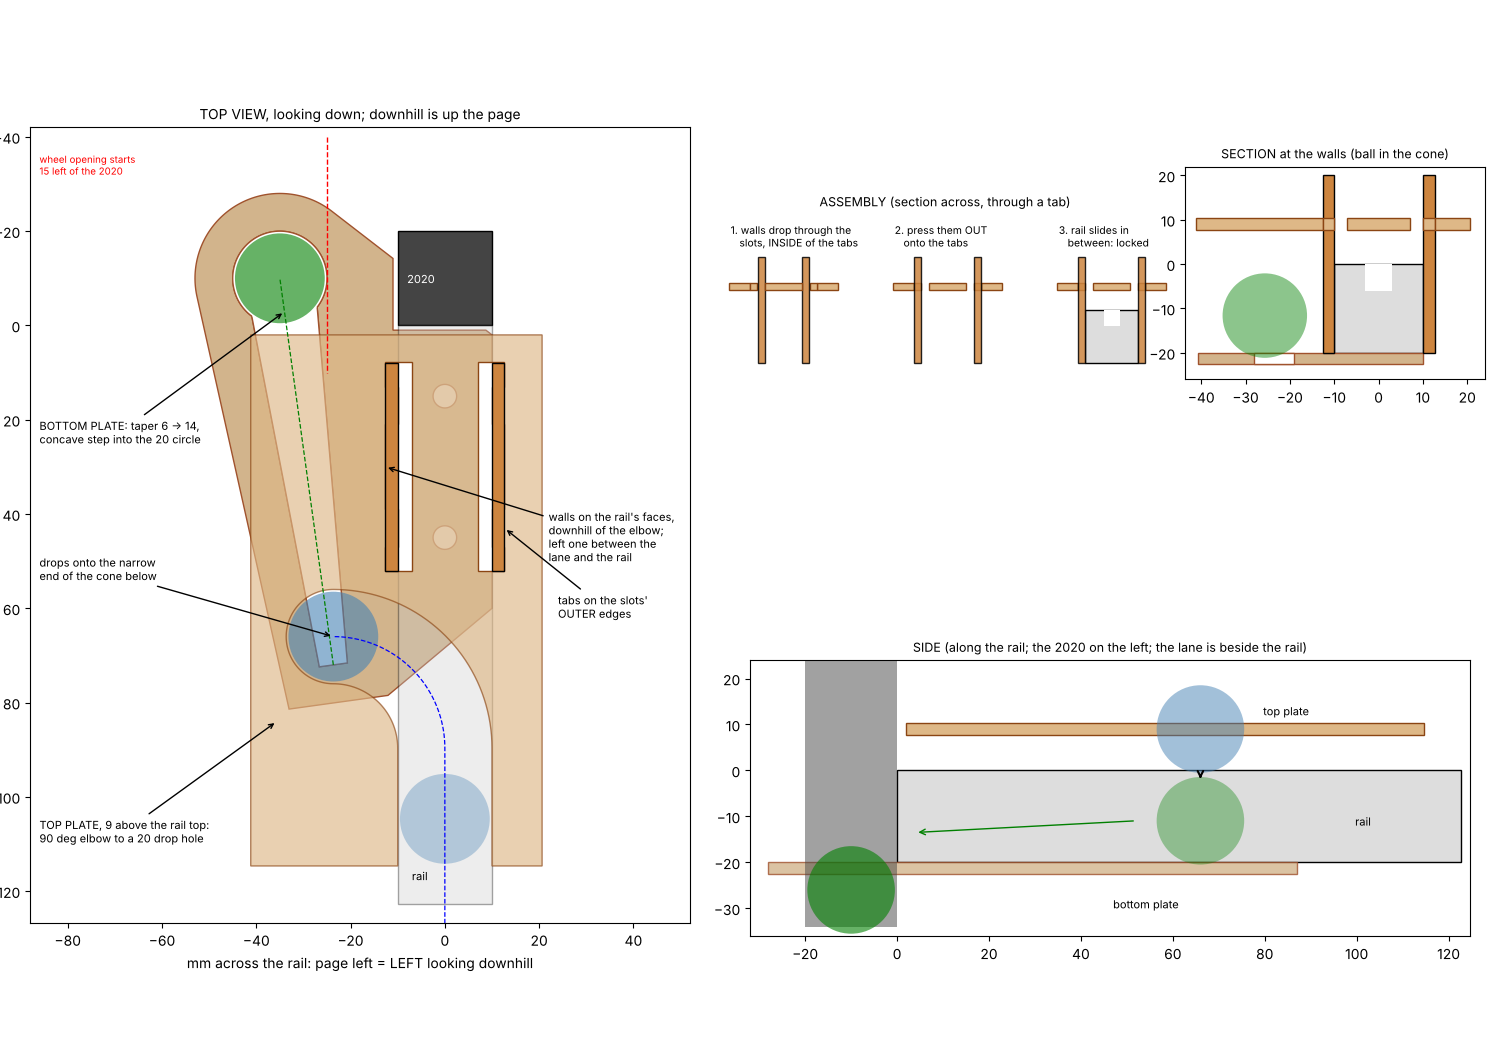
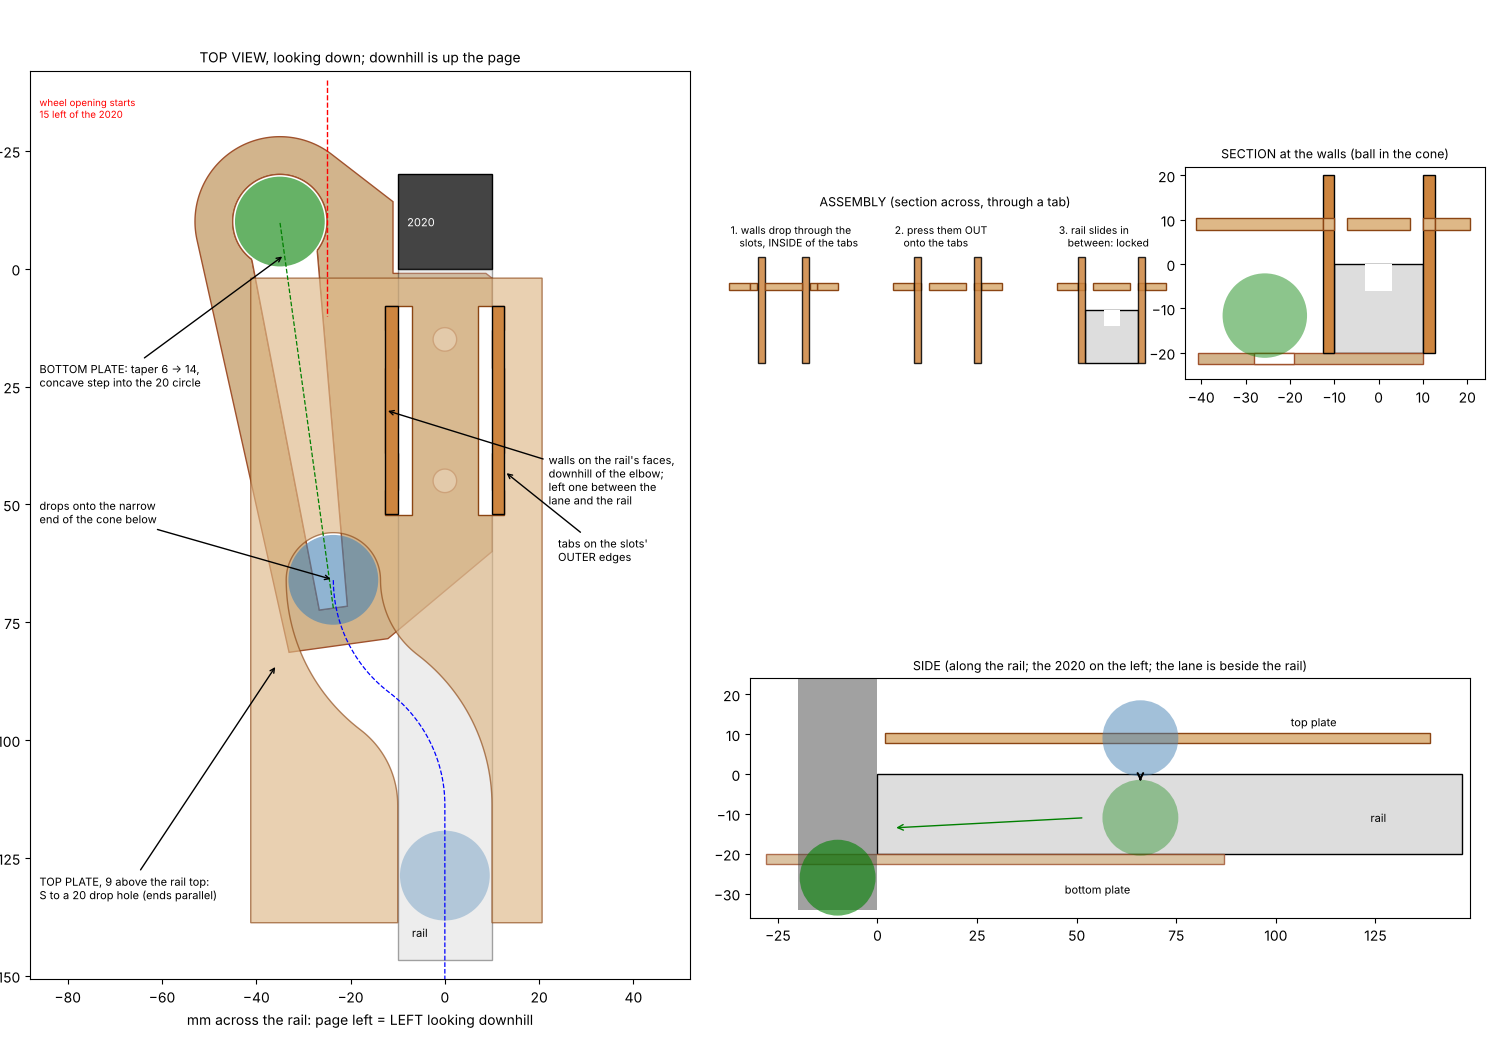
Feed drop: top plate with an S (2 x r30) ending parallel at the drop hole; bottom plate and walls unchanged
Claude-Session: https://claude.ai/code/session_01LQy87QnU21cWEAk5CN6jGY

diff --git a/marbles/clock/feed_drop_sketch.py b/marbles/clock/feed_drop_sketch.py
@@ -16,8 +16,11 @@ GAP_BEAM = 15.0                           # drop circle's right edge this far le
 X_END, YEND = -(10 + GAP_BEAM + 10), -10.0 # drop circle centre: beside the 2020, level with its centre
 PITCH, M5 = 30.0, 5.0                     # rail bolt holes: 30 apart, 5.0 (as the keepers)
 YW0, YW1 = 8.0, 52.0                      # walls (both identical): M5 at 15 and 45, symmetric, so either is left or right
-Y0 = YW1 + RC + 10 + 4                    # elbow start: its slot clears the walls' uphill ends by 4
-Y_HOLE = Y0 - RC                          # elbow ends at the drop hole (XL, Y_HOLE)
+Y_HOLE = YW1 + 14                         # drop hole centre (XL, Y_HOLE): its edge 4 above the walls' uphill ends
+S_R = 30.0                                # S: two arcs of this radius, rail centre -> lane line, ending parallel to the rail
+S_TH = math.degrees(math.acos(1 - (-XL / 2) / S_R))
+S_ALONG = S_R * math.sin(math.radians(S_TH))
+Y0 = Y_HOLE + 2 * S_ALONG                 # S starts here (heading downhill)
 WALL_H = 40.0                             # 20 on the rail's side + 20 above its top
 RAIL_M5 = [PITCH / 2 + PITCH * i for i in range(10)]
 W_TIP = 14.0                              # cone's wide end: still holds the ball (centre 6.46 up); the circle drops it
@@ -25,8 +28,10 @@ TAB_W = 8.0
 
 
 def geometry():
-    el = [(-RC + RC * math.cos(math.radians(90 * i / 40)), Y0 - RC * math.sin(math.radians(90 * i / 40))) for i in range(41)]
-    path = LineString([(0, Y0 + 40)] + el)
+    th = math.radians(S_TH)
+    a1 = [(-S_R + S_R * math.cos(th * i / 30), Y0 - S_R * math.sin(th * i / 30)) for i in range(31)]
+    a2 = [(XL + S_R - S_R * math.cos(th * (1 - i / 30)), Y_HOLE + S_R * math.sin(th * (1 - i / 30))) for i in range(1, 31)]
+    path = LineString([(0, Y0 + 40)] + a1 + a2)
     # cone: straight (no curve) from under the drop hole to the circle beside the 2020
     y_c0 = Y_HOLE + 6
     p0, p1 = (XL, y_c0), (X_END, YEND)
@@ -68,7 +73,7 @@ def emit(out_dir, wood="ply3"):
     g = geometry()
     out = []
     for name, geo, copies, note in (
-            ("feed_drop_top", g["plate"], "cut 1", f"top plate, {ZC:.1f} above the rail top in the walls' tabs: 90 deg elbow (20 slot) to a 20 drop hole"),
+            ("feed_drop_top_s", g["plate"], "cut 1", f"top plate, {ZC:.1f} above the rail top in the walls' tabs: S (20 slot, 2 x r{S_R:g}) to a 20 drop hole, ending parallel"),
             ("feed_drop_bottom", g["bot"], "cut 1", f"bottom plate under the rail: M5 every {PITCH:g} into its bottom slot; cone 6 -> {W_TIP:g}, step into the 20 circle"),
             ("feed_drop_wall", g["wall"], "cut 2 (left and right are the same)", f"wall: {WALL_H:g} tall, 2 tab holes at {20 + ZC:.1f} up, M5 {PITCH:g} apart at 10 up")):
         if name != "feed_drop_wall":       # geometry frame is mirrored vs the top view (x left looking downhill = -x
@@ -116,7 +121,7 @@ def main():
     a.add_patch(plt.Circle((0, Y0 + 15), BR, fc="steelblue", alpha=.35))
     a.add_patch(plt.Circle((XL, Y_HOLE), BR, fc="steelblue", alpha=.6)); a.add_patch(plt.Circle((X_END, YEND), BR, fc="green", alpha=.6))
     A = dict(arrowprops=dict(arrowstyle="->"), fontsize=8)
-    a.annotate("TOP PLATE, 9 above the rail top:\n90 deg elbow to a 20 drop hole", (XL - 12, Y_HOLE + 18), (-86, Y0 + 20), **A)
+    a.annotate("TOP PLATE, 9 above the rail top:\nS to a 20 drop hole (ends parallel)", (XL - 12, Y_HOLE + 18), (-86, Y0 + 20), **A)
     a.annotate("drops onto the narrow\nend of the cone below", (XL, Y_HOLE), (-86, Y_HOLE - 12), **A)
     a.annotate(f"BOTTOM PLATE: taper 6 -> {W_TIP:g},\nconcave step into the 20 circle", y_meet, (-86, 25), **A)
     a.annotate("walls on the rail's faces,\ndownhill of the elbow;\nleft one between the\nlane and the rail", (-10 - T, (yw0 + yw1) / 2), (22, (yw0 + yw1) / 2 + 20), **A)
@@ -160,9 +165,10 @@ def main():
     s.set_title("SIDE (along the rail; the 2020 on the left; the lane is beside the rail)", fontsize=9)
     out = Path(__file__).resolve().parent.parent / "views" / "feed_drop_v5.png"
     plt.savefig(out, dpi=100)
-    t = math.degrees(math.acos(1 - 10 / RC))
-    print(f"{out.name}: lane x {XL:.2f}; elbow r {RC:.2f}, y {Y0:.1f} -> hole at {Y_HOLE:g}; cone 6 at {y_c0:g} -> {W_TIP:g} at "
-          f"({y_meet[0]:.1f}, {y_meet[1]:.1f}), circle centre ({X_END:g}, {YEND:g}); walls {yw0:g}..{yw1:.1f}; ball centre crosses the rail edge {t:.1f} deg into the elbow")
+    # where the ball's centre crosses the rail edge (x -10): first arc if 10 < half the offset
+    t = math.degrees(math.acos(1 - 10 / S_R)) if 10 <= -XL / 2 else S_TH
+    print(f"{out.name}: lane x {XL:.2f}; S two r{S_R:g} arcs of {S_TH:.1f} deg, y {Y0:.1f} -> hole at {Y_HOLE:g}; cone 6 at {y_c0:g} -> {W_TIP:g} at "
+          f"({y_meet[0]:.1f}, {y_meet[1]:.1f}), circle centre ({X_END:g}, {YEND:g}); walls {yw0:g}..{yw1:.1f}; ball centre crosses the rail edge heading {t:.1f} deg off the rail line")
 
 
 if __name__ == "__main__":
